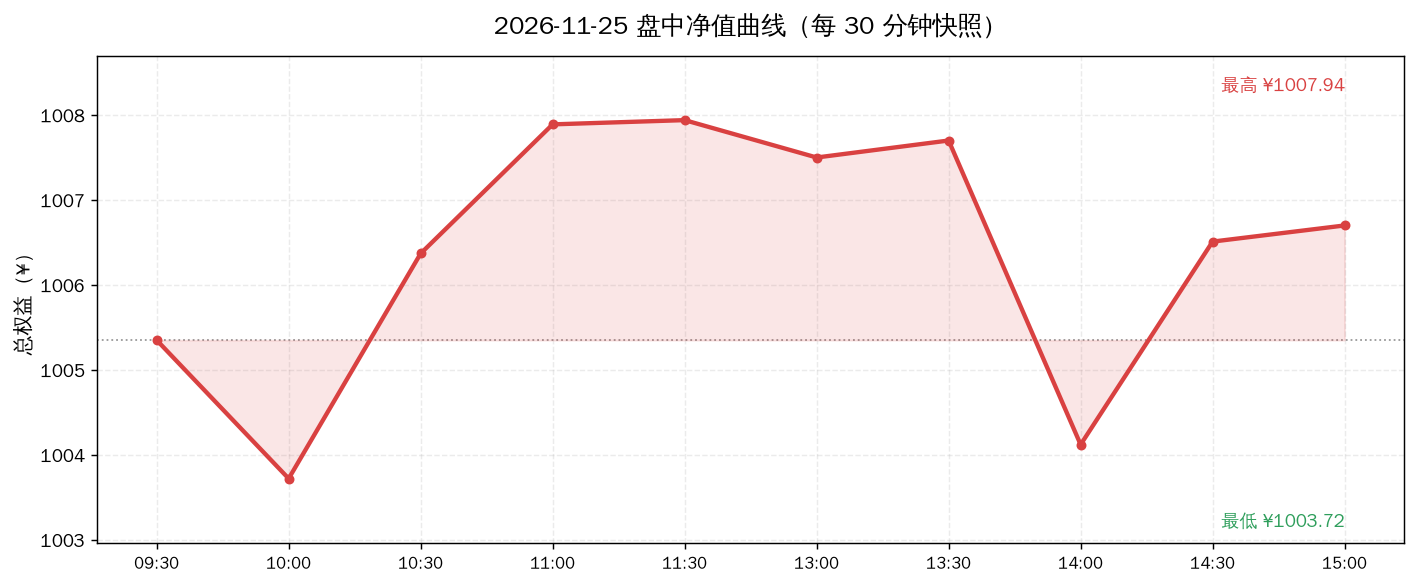
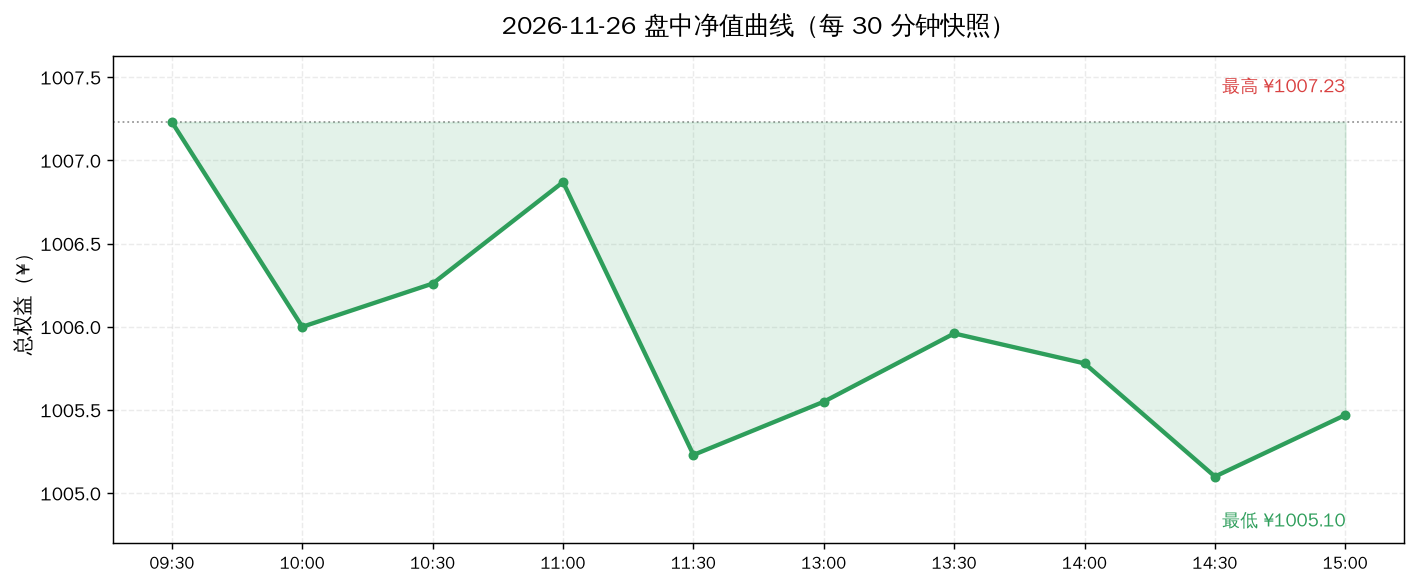
sim: dashboard update 2026-11-26 (equity ¥1005.47, +0.547%)

diff --git a/sim/DASHBOARD.md b/sim/DASHBOARD.md
@@ -1,8 +1,8 @@
 # 📊 模拟盘动态看板
 
-> **自动生成** · 最后更新 **2026-11-25 16:30** · 数据源：腾讯财经公开接口（实时行情）
+> **自动生成** · 最后更新 **2026-11-26 16:30** · 数据源：腾讯财经公开接口（实时行情）
 >
-> 本金 **¥1000.00** · 开仓 **2026-10-28** · 当前总权益 **¥1006.71** · 累计 **+0.671%**
+> 本金 **¥1000.00** · 开仓 **2026-10-28** · 当前总权益 **¥1005.47** · 累计 **+0.547%**
 >
 > ⚠ **纯模拟盘学习实验，不构成投资建议。**
 >
@@ -12,9 +12,9 @@
 
 ## 🎯 30 秒版本
 
-1. 从 2026-10-28 开仓到今天，账户从 ¥1000 变成 **¥1006.71**，赚了 **¥6.71（+0.671%）**。
-2. 今天单日 **-0.09%**，下跌 **¥0.86**。
-3. 同期大盘：**沪深300 -4.55%** 最强，**创业板指 -17.12%** 最弱 —— 本组合跑赢同期最强基准 +5.22 个百分点。
+1. 从 2026-10-28 开仓到今天，账户从 ¥1000 变成 **¥1005.47**，赚了 **¥5.47（+0.547%）**。
+2. 今天单日 **-0.12%**，下跌 **¥1.24**。
+3. 同期大盘：**沪深300 -4.49%** 最强，**创业板指 -16.89%** 最弱 —— 本组合跑赢同期最强基准 +5.04 个百分点。
 
 ## 📈 盈亏曲线
 
@@ -34,7 +34,7 @@
 
 ![盘中曲线](assets/intraday.png)
 
-**怎么读**：2026-11-25 当天每 30 分钟记录一次的账户总值。灰色虚线是当天开盘起点，曲线在虚线上方就是当天浮盈。A 股中午 11:30–13:00 休市，所以那段是平的。
+**怎么读**：2026-11-26 当天每 30 分钟记录一次的账户总值。灰色虚线是当天开盘起点，曲线在虚线上方就是当天浮盈。A 股中午 11:30–13:00 休市，所以那段是平的。
 
 ### 💵 每日盈亏明细图
 
@@ -50,20 +50,20 @@
 
 | 指标 | 数值 | 人话解读 |
 |---|---|---|
-| 总权益 | **¥1006.71** | 现在全部卖掉能拿回多少钱（持仓市值 + 现金） |
-| 持仓市值 | ¥732.74（72.8%） | 买成 ETF 的部分 |
+| 总权益 | **¥1005.47** | 现在全部卖掉能拿回多少钱（持仓市值 + 现金） |
+| 持仓市值 | ¥731.50（72.8%） | 买成 ETF 的部分 |
 | 现金 | ¥273.97（27.2%） | 留着没买的钱，按货基利率计息 |
-| 累计盈亏 | **¥+6.71（+0.671%）** | 相对 ¥1000 本金 |
-| 今日盈亏 | **-0.09%** | 今天一天的变化 |
+| 累计盈亏 | **¥+5.47（+0.547%）** | 相对 ¥1000 本金 |
+| 今日盈亏 | **-0.12%** | 今天一天的变化 |
 | 历史最高 | ¥1024.29 | 账户到过的最高点 |
-| 当前回撤 | -1.716% | 离最高点还差多少（负数=没回到最高点） |
+| 当前回撤 | -1.837% | 离最高点还差多少（负数=没回到最高点） |
 
 ### 持仓明细
 
 | 标的 | 代码 | 持股 | 成本价 | 现价 | 今日 | 市值 | 浮动盈亏 | 人话解读 |
 |---|---|---|---|---|---|---|---|---|
-| 红利低波100ETF景顺 | 515100 | 450 | ¥1.431 | ¥1.469 | 🔺+0.20% | ¥661.05 | **+17.10（+2.66%）** | 赚钱了 |
-| 黄金ETF华安 | 518880 | 10 | ¥8.226 | ¥7.169 | 🔻-3.00% | ¥71.69 | **-10.57（-12.85%）** | 还亏着 |
+| 红利低波100ETF景顺 | 515100 | 450 | ¥1.431 | ¥1.464 | 🔻-0.34% | ¥658.80 | **+14.85（+2.31%）** | 赚钱了 |
+| 黄金ETF华安 | 518880 | 10 | ¥8.226 | ¥7.270 | 🔺+1.41% | ¥72.70 | **-9.56（-11.62%）** | 还亏着 |
 | 现金 | — | — | — | — | — | ¥273.97 | — | 货基计息，年化 0.84% |
 
 ---
@@ -110,33 +110,41 @@
 
 | 资产 | 目标占比 | 实际占比 | 偏离 | 判定 |
 |---|---|---|---|---|
-| 红利低波100ETF景顺 | 65% | 65.7% | +0.7pp | 🟢 正常，不动 |
-| 黄金ETF华安 | 8% | 7.1% | -0.9pp | 🟢 正常，不动 |
+| 红利低波100ETF景顺 | 65% | 65.5% | +0.5pp | 🟢 正常，不动 |
+| 黄金ETF华安 | 8% | 7.2% | -0.8pp | 🟢 正常，不动 |
 | 现金（货基） | 27% | 27.2% | +0.2pp | 🟢 正常，不动 |
 
 #### ② 补仓条件检查（规则：跌到成本价 -8% 触发补仓，每只最多 2 次）
 
 | 标的 | 成本价 | 现价 | 距成本 | 已补仓 | 判定 |
 |---|---|---|---|---|---|
-| 红利低波100ETF景顺 | ¥1.431 | ¥1.469 | +2.66% | 0/2 | 🟢 未触发（还差 10.7pp 才到 -8%） |
-| 黄金ETF华安 | ¥8.226 | ¥7.169 | -12.85% | 0/2 | 🔴 **触发补仓** |
+| 红利低波100ETF景顺 | ¥1.431 | ¥1.464 | +2.31% | 0/2 | 🟢 未触发（还差 10.3pp 才到 -8%） |
+| 黄金ETF华安 | ¥8.226 | ¥7.270 | -11.62% | 0/2 | 🔴 **触发补仓** |
 
 #### ③ 回撤检查（规则：账户从最高点回撤 -5% 只记录、不割肉）
 
 | 指标 | 数值 |
 |---|---|
 | 历史最高净值 | ¥1024.29（2026-11-17） |
-| 当前净值 | ¥1006.71（2026-11-25） |
-| 回撤幅度 | **-1.716%** |
+| 当前净值 | ¥1005.47（2026-11-26） |
+| 回撤幅度 | **-1.837%** |
 | 触发阈值 | -5% |
 
-> 🟢 **未触发**：距阈值还有 3.28pp 缓冲。即使触发，纪律也是记录而非卖出。
+> 🟢 **未触发**：距阈值还有 3.16pp 缓冲。即使触发，纪律也是记录而非卖出。
 
 #### ④ 今日结论
 
 > ⏸ **账户已冻结，不执行任何交易。** 以上检查仅作记录用途——共扫描 6 项纪律，触发 **1** 项。冻结状态下即使触发也不动手（用户决定不投 A 股）。
 
 ### 四、每日决策记录（当时怎么判断的）
+
+#### 📅 2026-11-26 · 权益 ¥1005.47（累计 +0.547%）
+
+- 总权益 **¥1005.47**（当日 -0.12% / 累计 +0.547%）
+- 红利低波100ETF景顺 1.464 (-0.34%)
+- 黄金ETF华安 7.270 (+1.41%)
+- 现金 ¥273.97
+- 📝 自动收盘估值（看板 cron）
 
 #### 📅 2026-11-25 · 权益 ¥1006.71（累计 +0.671%）
 
@@ -313,9 +321,9 @@
 
 | 指数 | 同期涨跌 | 本组合超额 | 人话解读 |
 |---|---|---|---|
-| 沪深300 | -4.55% | **+5.22pp** | 跑赢 5.22 个百分点 |
-| 创业板指 | -17.12% | **+17.80pp** | 跑赢 17.80 个百分点 |
-| 上证指数 | -5.57% | **+6.24pp** | 跑赢 6.24 个百分点 |
+| 沪深300 | -4.49% | **+5.04pp** | 跑赢 5.04 个百分点 |
+| 创业板指 | -16.89% | **+17.43pp** | 跑赢 17.43 个百分点 |
+| 上证指数 | -5.56% | **+6.10pp** | 跑赢 6.10 个百分点 |
 
 > 注：`pp` = percentage point（百分点），是两个百分比相减的单位。「+2.5pp」意思是「比它高 2.5 个百分点」，不是「高 2.5%」。
 
@@ -344,6 +352,7 @@
 | 2026-11-23 | ¥1009.86 | ¥735.91 | ¥273.95 | +0.986% |
 | 2026-11-24 | ¥1007.57 | ¥733.61 | ¥273.96 | +0.757% |
 | 2026-11-25 | ¥1006.71 | ¥732.74 | ¥273.97 | +0.671% |
+| 2026-11-26 | ¥1005.47 | ¥731.50 | ¥273.97 | +0.547% |
 
 ---
 
@@ -356,4 +365,4 @@
 
 ---
 
-_本页由 `dashboard.py` 自动生成于 2026-11-25 16:30:33，每个交易日收盘后刷新。_
+_本页由 `dashboard.py` 自动生成于 2026-11-26 16:30:48，每个交易日收盘后刷新。_
